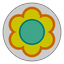
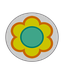
Fix sliver above kart emblem
The emblem's patch of the nose reaches past its picture, and the
picture repeated there, showing the emblem's far edge again as a white
sliver behind it. Each emblem is written on a clear canvas the size of
the patch's reach, so it's drawn once.

Claude-Session: https://claude.ai/code/session_014uh1ukApwvbhg8p4pybuYN

diff --git a/packages/client/scripts/kart-model.py b/packages/client/scripts/kart-model.py
@@ -49,7 +49,7 @@ MK8_METRES = 2.0 / 15.42  # MK8's Mario, 15.42 of its units tall, stood 2 m (joi
 ROOM = 1.1
 OBJ_UNIT = 0.127  # an OBJ rip's units, in MK8's
 BODY_TEXTURE = 512  # px: the body's picture and its paint, each side
-EMBLEM_TEXTURE = 64  # px: an emblem's picture, each side
+EMBLEM_TEXTURE = 64  # px: an emblem's picture on its canvas (`decal`), each side
 TIRE_KEEP = 0.5  # of a tire's triangles kept: a tread's bevels are lost at its size
 PAINT_DIFFERS = 24  # 0-255: a pixel some driver's albedo has this far from another's is painted
 FEET_APART = 0.19  # metres each foot rests out from the middle line: on its pedal, where there are pedals
@@ -180,6 +180,24 @@ def triangles(pos: np.ndarray, uv: np.ndarray, which: np.ndarray | None = None) 
     return mesh
 
 
+def decal(uv: np.ndarray) -> tuple[np.ndarray, np.ndarray, np.ndarray]:
+    """A decal's patch reaches past its picture, which MK8 draws on it once; a part's picture
+    repeats (emit_part), and past its edge would show its far edge over again. So the picture is
+    set on a clear canvas as big as the patch reaches (`on_canvas`), and the patch's texture
+    coordinates run 0 to 1 over that. Returns those coordinates, and the canvas: where the
+    picture's corner is on it and its size, both in pictures."""
+    lo, hi = uv.min(axis=0), uv.max(axis=0)
+    picture = np.floor((lo + hi) / 2)  # the repeat the picture is in: the one the patch's middle is in
+    return (uv - lo) / (hi - lo), picture - lo, hi - lo
+
+
+def on_canvas(picture: Image.Image, corner: np.ndarray, size: np.ndarray) -> Image.Image:
+    """`picture` on a clear canvas `size` pictures across and down, its corner `corner` in."""
+    canvas = Image.new("RGBA", tuple(np.round(size * picture.size).astype(int)), (0, 0, 0, 0))
+    canvas.paste(picture, tuple(np.round(corner * picture.size).astype(int)))
+    return canvas
+
+
 def simplified(pos: np.ndarray, uv: np.ndarray, keep: float) -> tuple[np.ndarray, np.ndarray]:
     """A triangle soup thinned to `keep` of its triangles (glb.py `decimate`)."""
     spots, corner = np.unique(np.concatenate([np.round(pos, 5), np.round(uv, 5)], axis=1), axis=0, return_inverse=True)
@@ -267,6 +285,7 @@ def main(kart_id: str, body_dir: Path, tire_dir: Path) -> None:
 
     emit_part(out / "body.bin", triangles(body_pos * ROOM, body_uv, rest), {})
     emit_part(out / "steer.bin", triangles((body_pos - middle) * ROOM, body_uv, wheel), {})
+    emblem_uv, emblem_corner, emblem_canvas = decal(emblem_uv)
     emit_part(out / "emblem.bin", triangles(emblem_pos * ROOM, emblem_uv), {})
     tire_pos, tire_uv = simplified(tire_pos, tire_uv, TIRE_KEEP)
     emit_part(out / "tire.bin", triangles(tire_pos * ROOM, tire_uv), {})
@@ -274,7 +293,9 @@ def main(kart_id: str, body_dir: Path, tire_dir: Path) -> None:
     albedos = {d: Image.open(next(body_dir.glob(f"bodyk_*_{code}_alb.png"))) for d, (code, _) in DRIVERS.items()}
     colours = paint(albedos, out)
     for driver, (_, name) in DRIVERS.items():
-        emblem = Image.open(body_dir / "Emblems" / f"{name}.png").convert("RGBA")
+        emblem = on_canvas(
+            Image.open(body_dir / "Emblems" / f"{name}.png").convert("RGBA"), emblem_corner, emblem_canvas
+        )
         emblem.resize((EMBLEM_TEXTURE,) * 2, Image.Resampling.LANCZOS).save(out / f"emblem-{driver}.png", optimize=True)
     Image.open(tire_dir / f"Tire_{tire_set}_Alb.png").convert("RGB").save(out / "tire.png", optimize=True)
 
